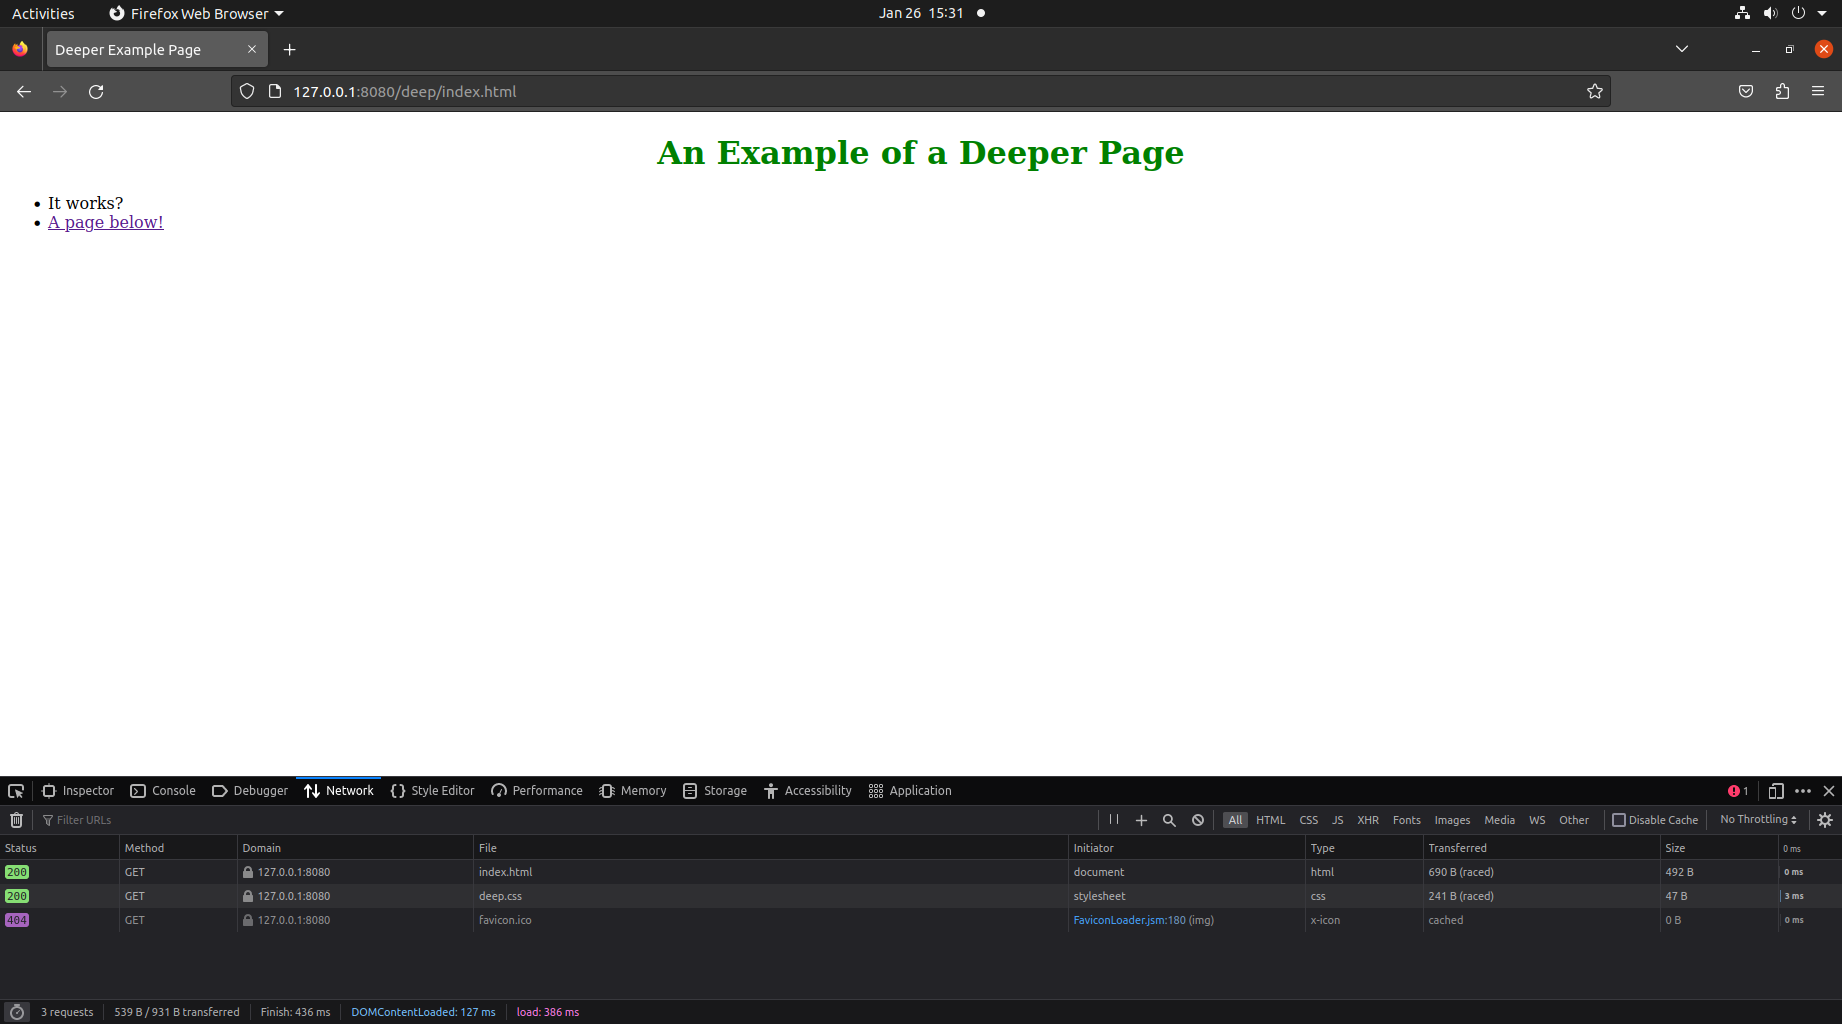
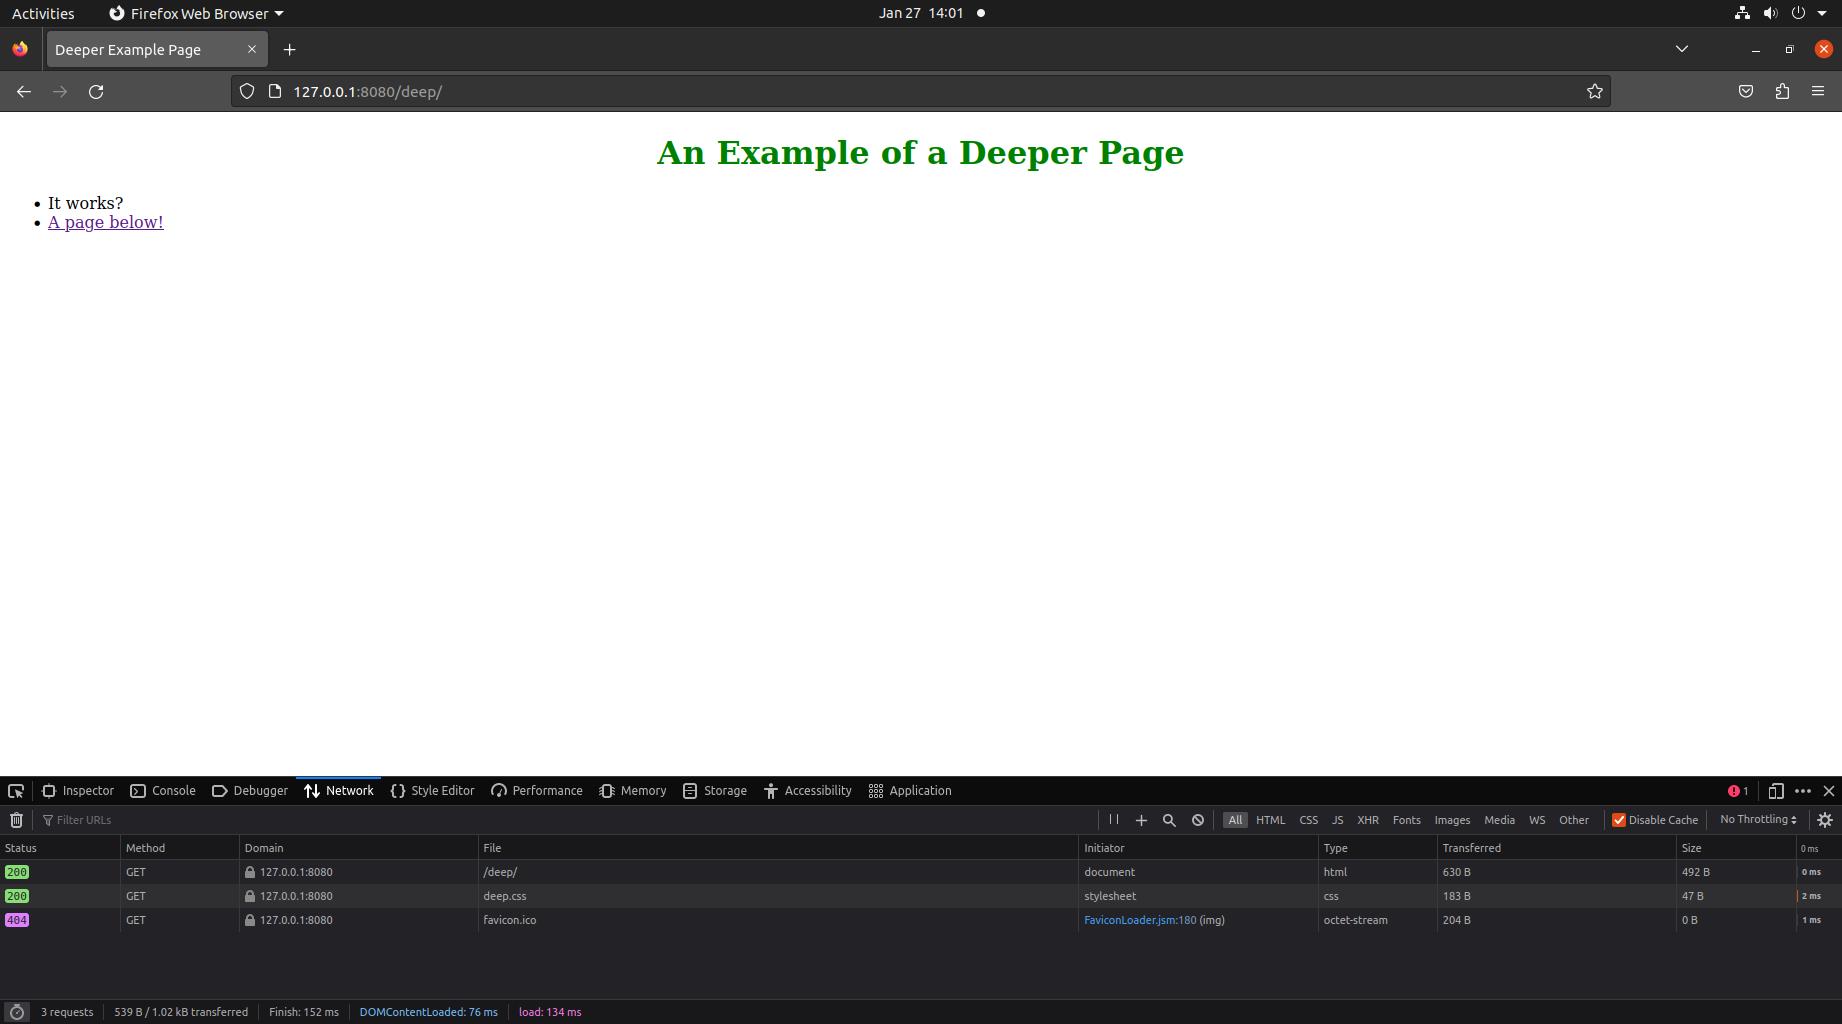
Passes all tests. Change deep.png to show proper URL.

diff --git a/response.py b/response.py
@@ -10,10 +10,8 @@ class Response:
     def __init__(self, request: ParsedRequest):
         self.request = request
         #localhost:8080/deep -> www/deep
-        try:
-            self.path = constant.PATH_ROOT + request.get_field('path')
-        except error.HTTPError as e:
-            raise e
+        self.path = constant.PATH_ROOT + request.get_field('path')
+
         self.status_code = self.__get_status_code()
         self.mime = self.__get_mimetype()
 
@@ -31,21 +29,17 @@ class Response:
         return self.request.get_field('method') == 'GET'
 
     #See readme for acknowledgements
-    def __test_path_above_root(self):
+    def __path_above_root(self):
         current = getcwd()
-        match = pathfinder.abspath(self.request.get_field('path').lstrip('/'))
+        match = pathfinder.realpath(self.request.get_field('path').lstrip('/'))
 
-        if not current == pathfinder.commonpath([current, match]):
-            raise error.HTTPError(self.request.get_field('host'), constant.NOT_FOUND, 'Not Found', {}, None)
+        return current != pathfinder.commonpath([current, match])
 
     #TODO constant.FORBIDDEN if request for a resource above www 
     def __get_status_code(self):
-        #bubble up the stupid exception to be caught by unit test
-        try:
-            self.__test_path_above_root()
-        except error.HTTPError as e:
-            raise e
-
+        #Disallow acces to above
+        if self.__path_above_root():
+            return constant.NOT_FOUND
         if not self.request.is_valid():
             return constant.BAD_REQ
         elif not self.__method_is_get():

diff --git a/server.py b/server.py
@@ -32,11 +32,11 @@ from response import Response
 class MyWebServer(socketserver.BaseRequestHandler):
     
     def handle(self):
-        self.data = self.request.recv(1024).strip()
-        print ("Got a request of: %s\n" % self.data)
-        parsed = ParsedRequest(self.data)
-        httpResponse = Response(parsed)
-        self.request.sendall(httpResponse.encode())
+            self.data = self.request.recv(1024).strip()
+            print ("Got a request of: %s\n" % self.data)
+            parsed = ParsedRequest(self.data)
+            httpResponse = Response(parsed)
+            self.request.sendall(httpResponse.encode())
 
 if __name__ == "__main__":
     HOST, PORT = "localhost", 8080
